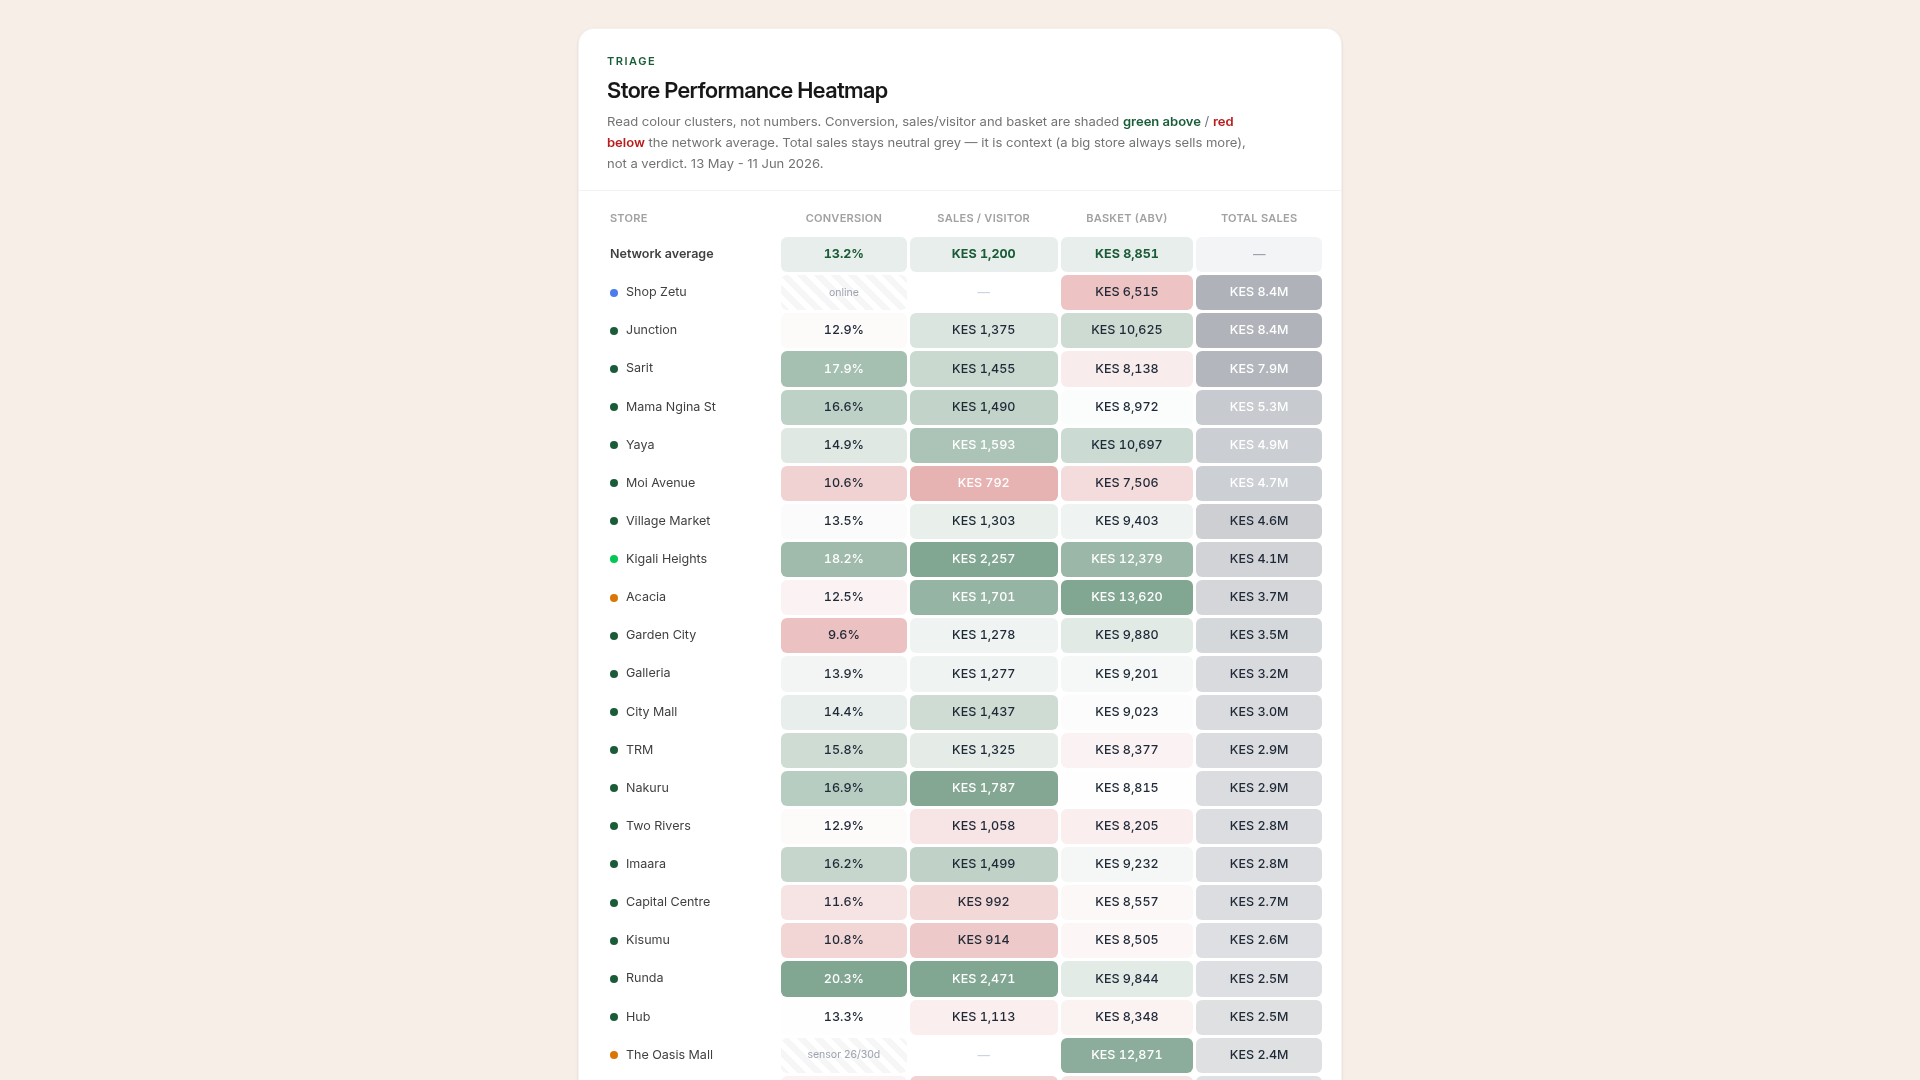
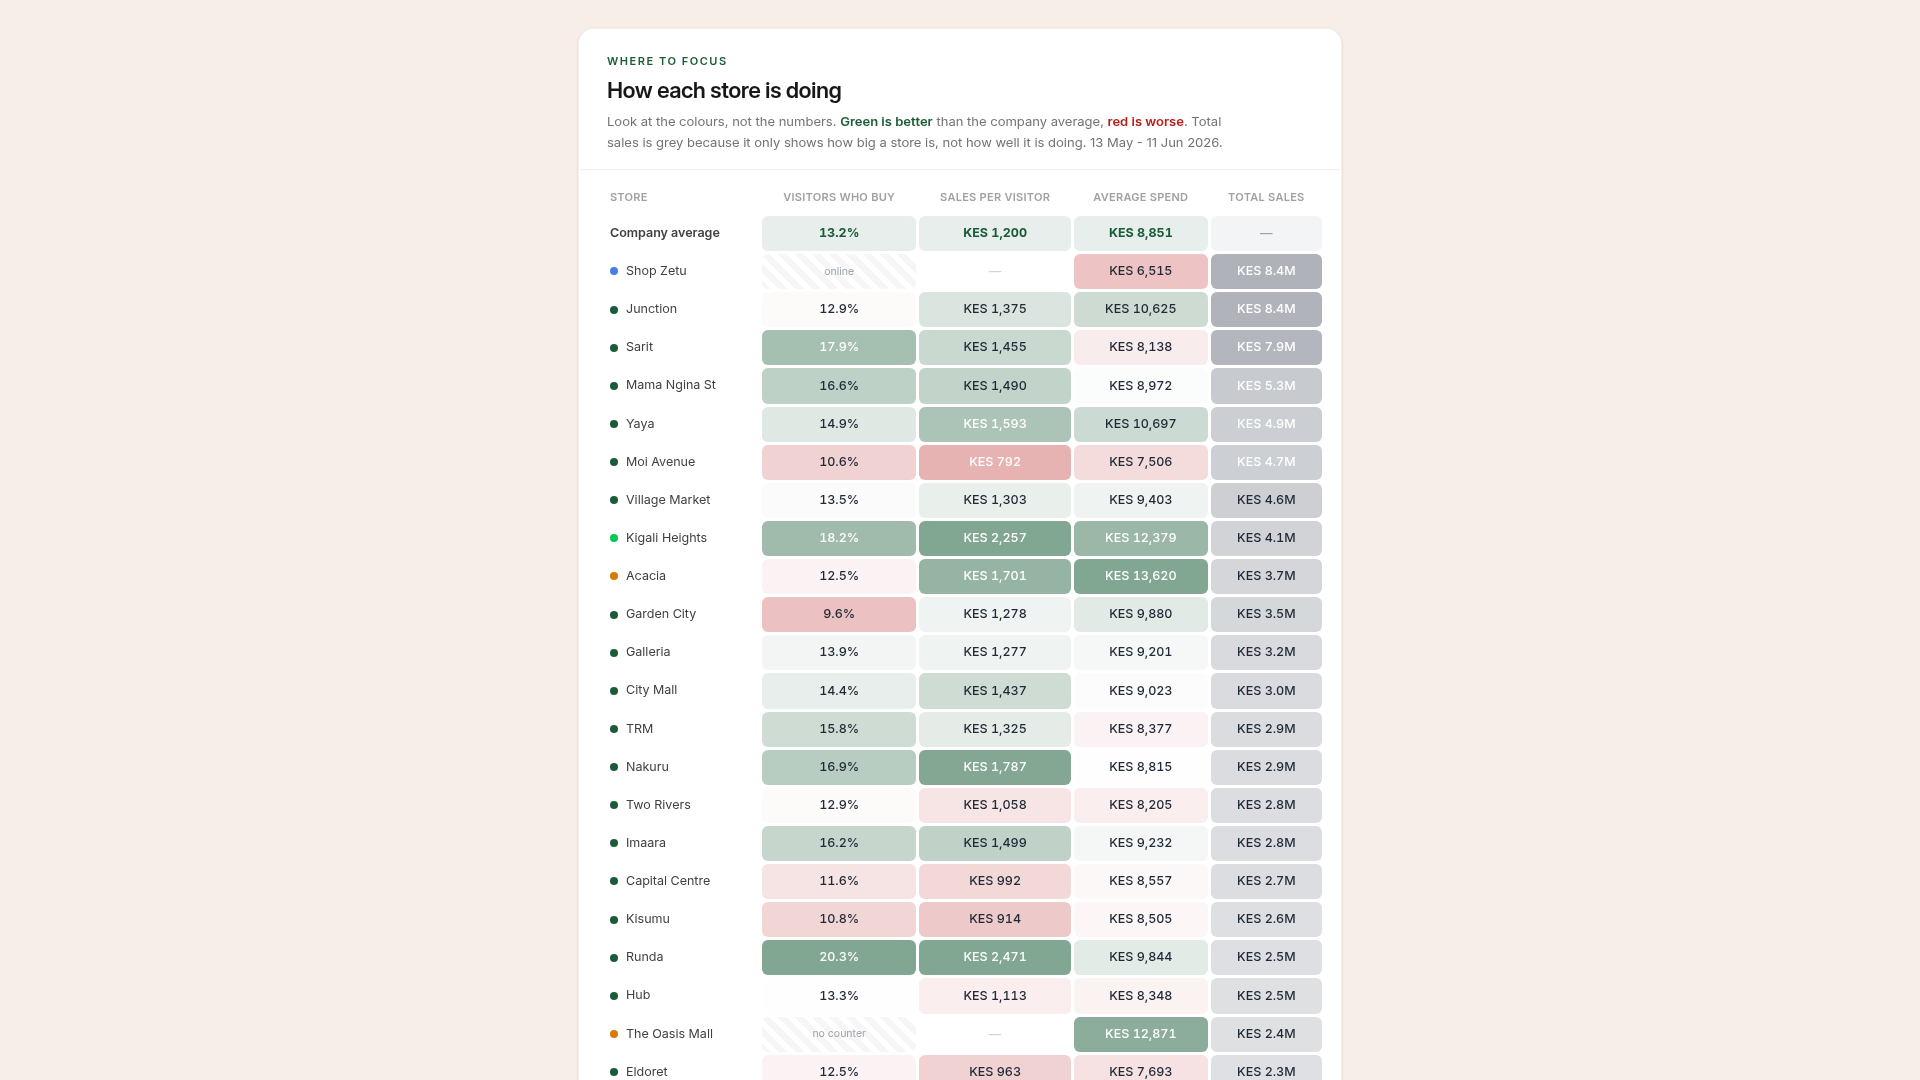
Improve store performance visualizations with simpler language
Update heatmap and quadrant components with plain English labels and descriptions. Refactor KPI calculations in api_pg.py to accurately reflect net sales, gross sales, and related metrics.

Replit-Commit-Author: Agent
Replit-Commit-Session-Id: 21d9856c-48e5-4f86-9b96-73dfbca8c926
Replit-Commit-Checkpoint-Type: full_checkpoint
Replit-Commit-Event-Id: 1252f12c-ba6e-4c66-9650-27c1a939bb11
Replit-Commit-Screenshot-Url: https://storage.googleapis.com/screenshot-production-us-central1/a2104183-e22b-4aee-99f6-fc604d080eee/21d9856c-48e5-4f86-9b96-73dfbca8c926/EQgl18Q
Replit-Helium-Checkpoint-Created: true

Changed region(s): [[0.3125, 0.1833, 0.6875, 1.0], [0.3125, 0.0306, 0.6562, 0.2139]]

diff --git a/artifacts/mockup-sandbox/src/components/mockups/locations-viz/Quadrant.tsx b/artifacts/mockup-sandbox/src/components/mockups/locations-viz/Quadrant.tsx
@@ -41,23 +41,23 @@ export function Quadrant() {
         <div className="rounded-2xl bg-white shadow-sm border border-black/5 overflow-hidden">
           <div className="px-7 pt-6 pb-4 border-b border-black/5">
             <div className="text-[11px] font-semibold tracking-[0.14em] uppercase" style={{ color: "#1a5c38" }}>
-              Diagnosis
+              Store check-up
             </div>
             <h2 className="mt-1 text-[22px] font-semibold tracking-tight text-neutral-900">
-              Conversion vs. Average Basket
+              Are people buying, and how much do they spend?
             </h2>
-            <p className="mt-1 text-[13px] text-neutral-500 leading-relaxed max-w-[640px]">
-              Each store positioned against the network average. Where a store sits tells you the <em>kind</em> of
-              problem it has — not just whether it is good or bad. Bubble size = orders. Trails show movement
-              vs the prior period ({NETWORK.prevWindow}). {NETWORK.window}.
+            <p className="mt-1 text-[13px] text-neutral-500 leading-relaxed max-w-[660px]">
+              Across the bottom: how many visitors buy something. Up the side: how much each customer spends.
+              The dotted lines are the company average — top-right is the best place to be. Bigger circle = more
+              sales made (number of sales). The arrows show how each store moved since last month ({NETWORK.prevWindow}). {NETWORK.window}.
             </p>
           </div>
 
           {/* biggest movers strip */}
           <div className="px-7 py-3.5 border-b border-black/5 flex flex-wrap items-start gap-x-8 gap-y-3" style={{ background: "#fcf9f4" }}>
-            <MoverGroup label="Biggest gains" dir="up" movers={improving} />
+            <MoverGroup label="Most improved" dir="up" movers={improving} />
             <div className="w-px self-stretch bg-black/5 hidden md:block" />
-            <MoverGroup label="Biggest declines" dir="down" movers={sliding} />
+            <MoverGroup label="Slipping the most" dir="down" movers={sliding} />
           </div>
 
           <div className="relative">
@@ -81,10 +81,10 @@ export function Quadrant() {
               <line x1={M.l} y1={netY} x2={M.l + IW} y2={netY} stroke="#1a5c38" strokeDasharray="5 4" strokeWidth={1.4} opacity={0.55} />
 
               {/* quadrant labels */}
-              <text x={M.l + IW - 8} y={M.t + 18} textAnchor="end" className="fill-neutral-400" style={{ fontSize: 11, fontWeight: 600 }}>WIN ZONE — both levers healthy</text>
-              <text x={M.l + 8} y={M.t + 18} textAnchor="start" className="fill-neutral-400" style={{ fontSize: 11, fontWeight: 600 }}>Premium basket, low conversion</text>
-              <text x={M.l + IW - 8} y={M.t + IH - 10} textAnchor="end" className="fill-neutral-400" style={{ fontSize: 11, fontWeight: 600 }}>High conversion, small basket</text>
-              <text x={M.l + 8} y={M.t + IH - 10} textAnchor="start" className="fill-neutral-400" style={{ fontSize: 11, fontWeight: 600 }}>Underperforming</text>
+              <text x={M.l + IW - 8} y={M.t + 18} textAnchor="end" className="fill-neutral-400" style={{ fontSize: 11, fontWeight: 600 }}>Doing well — many buy and spend a lot</text>
+              <text x={M.l + 8} y={M.t + 18} textAnchor="start" className="fill-neutral-400" style={{ fontSize: 11, fontWeight: 600 }}>Big spenders, but few buy</text>
+              <text x={M.l + IW - 8} y={M.t + IH - 10} textAnchor="end" className="fill-neutral-400" style={{ fontSize: 11, fontWeight: 600 }}>Many buy, but spend little</text>
+              <text x={M.l + 8} y={M.t + IH - 10} textAnchor="start" className="fill-neutral-400" style={{ fontSize: 11, fontWeight: 600 }}>Needs help — few buy, low spend</text>
 
               {/* axes */}
               <line x1={M.l} y1={M.t + IH} x2={M.l + IW} y2={M.t + IH} stroke="#000" opacity={0.18} />
@@ -95,9 +95,9 @@ export function Quadrant() {
               {[5000, 7500, 10000, 12500].map((a) => (
                 <text key={a} x={M.l - 10} y={yScale(a) + 4} textAnchor="end" className="fill-neutral-500" style={{ fontSize: 11 }}>{(a / 1000).toFixed(0)}k</text>
               ))}
-              <text x={M.l + IW / 2} y={H - 14} textAnchor="middle" className="fill-neutral-600" style={{ fontSize: 12, fontWeight: 600 }}>Conversion rate</text>
-              <text transform={`rotate(-90 18 ${M.t + IH / 2})`} x={18} y={M.t + IH / 2} textAnchor="middle" className="fill-neutral-600" style={{ fontSize: 12, fontWeight: 600 }}>Average basket (KES)</text>
-              <text x={netX} y={M.t - 6} textAnchor="middle" style={{ fontSize: 10.5, fontWeight: 700, fill: "#1a5c38" }}>avg {NETWORK.netConv}%</text>
+              <text x={M.l + IW / 2} y={H - 14} textAnchor="middle" className="fill-neutral-600" style={{ fontSize: 12, fontWeight: 600 }}>How many visitors buy</text>
+              <text transform={`rotate(-90 18 ${M.t + IH / 2})`} x={18} y={M.t + IH / 2} textAnchor="middle" className="fill-neutral-600" style={{ fontSize: 12, fontWeight: 600 }}>Average spend per sale (KES)</text>
+              <text x={netX} y={M.t - 6} textAnchor="middle" style={{ fontSize: 10.5, fontWeight: 700, fill: "#1a5c38" }}>company avg {NETWORK.netConv}%</text>
 
               {/* movement trails (since last month) */}
               <defs>
@@ -157,25 +157,25 @@ export function Quadrant() {
                     <span className="text-[13px] font-semibold text-neutral-900">{hover.store}</span>
                   </div>
                   <div className="mt-2.5 space-y-1.5 text-[12px]">
-                    <Row k="Conversion" v={fmtPct(hover.conversion)} />
-                    <Row k="Avg basket" v={fmtKES(hover.abv)} />
-                    <Row k="Orders" v={hover.orders.toLocaleString()} />
-                    <Row k="Net sales" v={fmtKES(hover.sales)} />
-                    <Row k="Footfall" v={hover.footfall.toLocaleString()} />
+                    <Row k="Visitors who buy" v={fmtPct(hover.conversion)} />
+                    <Row k="Average spend" v={fmtKES(hover.abv)} />
+                    <Row k="Sales (count)" v={hover.orders.toLocaleString()} />
+                    <Row k="Total sales" v={fmtKES(hover.sales)} />
+                    <Row k="Visitors" v={hover.footfall.toLocaleString()} />
                   </div>
                   {hover.prev && (
                     <div className="mt-2.5 pt-2.5 border-t border-black/5 text-[11px]">
                       <div className="font-semibold mb-1" style={{ color: MOVE_COLOR[hover.prev.dir] }}>
-                        {hover.prev.dir === "up" ? "Improving" : hover.prev.dir === "down" ? "Sliding" : "Roughly flat"} vs last month
+                        {hover.prev.dir === "up" ? "Better" : hover.prev.dir === "down" ? "Worse" : "About the same"} than last month
                       </div>
                       <div className="flex items-center justify-between text-neutral-500">
-                        <span>Conversion</span>
+                        <span>Visitors who buy</span>
                         <span className="tabular-nums font-medium" style={{ color: hover.prev.dConv >= 0 ? "#1a5c38" : "#b91c1c" }}>
                           {hover.prev.dConv >= 0 ? "+" : ""}{hover.prev.dConv.toFixed(1)} pts
                         </span>
                       </div>
                       <div className="flex items-center justify-between text-neutral-500">
-                        <span>Avg basket</span>
+                        <span>Average spend</span>
                         <span className="tabular-nums font-medium" style={{ color: hover.prev.dAbv >= 0 ? "#1a5c38" : "#b91c1c" }}>
                           {hover.prev.dAbv >= 0 ? "+" : "−"}{fmtKES(Math.abs(hover.prev.dAbv)).replace("KES ", "")}
                         </span>
@@ -184,7 +184,7 @@ export function Quadrant() {
                   )}
                 </>
               ) : (
-                <div className="text-[12px] text-neutral-400 leading-relaxed">Hover any bubble for the full numbers.</div>
+                <div className="text-[12px] text-neutral-400 leading-relaxed">Point at any circle to see its numbers.</div>
               )}
             </div>
           </div>
@@ -199,20 +199,20 @@ export function Quadrant() {
             <div className="flex items-center gap-1.5 text-[12px] text-neutral-500">
               <span className="inline-block w-4 h-4 rounded-full border" style={{ borderColor: "#1a5c38" }} />
               <span className="inline-block w-2.5 h-2.5 rounded-full border" style={{ borderColor: "#1a5c38" }} />
-              bubble = orders
+              bigger circle = more sales made
             </div>
             <div className="flex items-center gap-3 text-[12px] text-neutral-500">
               <span className="flex items-center gap-1.5">
                 <svg width="22" height="8"><line x1="1" y1="4" x2="17" y2="4" stroke="#1a5c38" strokeWidth="1.6" /><path d="M16,1.6 L21,4 L16,6.4 Z" fill="#1a5c38" /></svg>
-                improving
+                getting better
               </span>
               <span className="flex items-center gap-1.5">
                 <svg width="22" height="8"><line x1="1" y1="4" x2="17" y2="4" stroke="#b91c1c" strokeWidth="1.6" /><path d="M16,1.6 L21,4 L16,6.4 Z" fill="#b91c1c" /></svg>
-                sliding
+                getting worse
               </span>
               <span className="flex items-center gap-1.5">
                 <svg width="22" height="8"><line x1="1" y1="4" x2="17" y2="4" stroke="#9ca3af" strokeWidth="1.6" /><path d="M16,1.6 L21,4 L16,6.4 Z" fill="#9ca3af" /></svg>
-                flat
+                no change
               </span>
               <span className="text-neutral-400">since last month</span>
             </div>
@@ -220,11 +220,11 @@ export function Quadrant() {
           {notPlotted.length > 0 && (
             <div className="px-7 pb-5 -mt-1">
               <div className="rounded-lg bg-neutral-50 border border-black/5 px-4 py-2.5 text-[12px] text-neutral-500">
-                <span className="font-semibold text-neutral-600">Not plotted (no reliable footfall):</span>{" "}
+                <span className="font-semibold text-neutral-600">Not shown (no reliable visitor count):</span>{" "}
                 {notPlotted.map((s, i) => (
                   <span key={s.store}>
                     {s.store}
-                    {s.noFootfall ? " (online channel)" : ` (sensor down ${s.sensorGap}/30 days)`}
+                    {s.noFootfall ? " (online — no shop visitors)" : ` (counter down ${s.sensorGap}/30 days)`}
                     {i < notPlotted.length - 1 ? " · " : ""}
                   </span>
                 ))}

diff --git a/artifacts/mockup-sandbox/src/components/mockups/locations-viz/Heatmap.tsx b/artifacts/mockup-sandbox/src/components/mockups/locations-viz/Heatmap.tsx
@@ -34,16 +34,16 @@ export function Heatmap() {
         <div className="rounded-2xl bg-white shadow-sm border border-black/5 overflow-hidden">
           <div className="px-7 pt-6 pb-4 border-b border-black/5">
             <div className="text-[11px] font-semibold tracking-[0.14em] uppercase" style={{ color: "#1a5c38" }}>
-              Triage
+              Where to focus
             </div>
             <h2 className="mt-1 text-[22px] font-semibold tracking-tight text-neutral-900">
-              Store Performance Heatmap
+              How each store is doing
             </h2>
             <p className="mt-1 text-[13px] text-neutral-500 leading-relaxed max-w-[640px]">
-              Read colour clusters, not numbers. Conversion, sales/visitor and basket are shaded{" "}
-              <span style={{ color: "#1a5c38", fontWeight: 600 }}>green above</span> /{" "}
-              <span style={{ color: "#b91c1c", fontWeight: 600 }}>red below</span> the network average. Total sales stays
-              neutral grey — it is context (a big store always sells more), not a verdict. {NETWORK.window}.
+              Look at the colours, not the numbers.{" "}
+              <span style={{ color: "#1a5c38", fontWeight: 600 }}>Green is better</span> than the company average,{" "}
+              <span style={{ color: "#b91c1c", fontWeight: 600 }}>red is worse</span>. Total sales is grey because it only
+              shows how big a store is, not how well it is doing. {NETWORK.window}.
             </p>
           </div>
 
@@ -52,7 +52,7 @@ export function Heatmap() {
               <thead>
                 <tr>
                   <th className="text-left text-[11px] font-semibold uppercase tracking-wide text-neutral-400 px-3 py-2">Store</th>
-                  {["Conversion", "Sales / visitor", "Basket (ABV)", "Total sales"].map((h) => (
+                  {["Visitors who buy", "Sales per visitor", "Average spend", "Total sales"].map((h) => (
                     <th key={h} className="text-center text-[11px] font-semibold uppercase tracking-wide text-neutral-400 px-2 py-2">{h}</th>
                   ))}
                 </tr>
@@ -60,7 +60,7 @@ export function Heatmap() {
               <tbody>
                 {/* pinned network average */}
                 <tr>
-                  <td className="px-3 py-2 text-[12.5px] font-semibold text-neutral-700 whitespace-nowrap">Network average</td>
+                  <td className="px-3 py-2 text-[12.5px] font-semibold text-neutral-700 whitespace-nowrap">Company average</td>
                   <Cell text={fmtPct(NETWORK.netConv)} bg="rgba(26,92,56,0.10)" color="#1a5c38" bold />
                   <Cell text={fmtKES(NETWORK.netSpv)} bg="rgba(26,92,56,0.10)" color="#1a5c38" bold />
                   <Cell text={fmtKES(NETWORK.netAbv)} bg="rgba(26,92,56,0.10)" color="#1a5c38" bold />
@@ -74,9 +74,10 @@ export function Heatmap() {
           </div>
 
           <div className="px-7 py-4 border-t border-black/5 text-[12px] text-neutral-500 leading-relaxed">
-            <span className="font-semibold text-neutral-600">How to read it:</span> a row red across conversion + sales/visitor
-            is a traffic-or-closing problem; a row red only on basket is an attach-selling / premium-mix problem. Hatched cells
-            mark stores where the footfall sensor was down too long to trust conversion.
+            <span className="font-semibold text-neutral-600">How to read it:</span> if a store is red on both
+            "visitors who buy" and "sales per visitor", not enough people are buying — work on welcoming and closing
+            the sale. If it is red only on "average spend", customers buy but spend little — suggest add-ons and
+            higher-value items. Striped boxes mean the visitor counter was down too long to trust those numbers.
           </div>
         </div>
       </div>
@@ -92,13 +93,13 @@ function Row({ s }: { s: StoreRow }) {
         <span className="inline-flex items-center gap-2">
           <span className="inline-block w-2 h-2 rounded-full shrink-0" style={{ background: ACCENT[s.country] }} />
           {s.store}
-          {s.lowVolume && <span className="text-[10px] text-neutral-400">(low vol)</span>}
+          {s.lowVolume && <span className="text-[10px] text-neutral-400">(few sales)</span>}
         </span>
       </td>
       {unreliable && s.noFootfall ? (
         <HatchCell label="online" />
       ) : unreliable ? (
-        <HatchCell label={`sensor ${s.sensorGap}/30d`} />
+        <HatchCell label="no counter" />
       ) : (
         <Cell text={fmtPct(s.conversion)} bg={divergingBg(s.conversion, NETWORK.netConv)} color={textColor(s.conversion, NETWORK.netConv)} />
       )}

diff --git a/api_pg.py b/api_pg.py
@@ -1548,7 +1548,7 @@ def get_kpis(
     where = build_filters(date_from, date_to, country, channel)
     rows = run_query("""
         SELECT
-            ROUND(SUM(s.total_sales_kes::numeric), 0) AS total_sales,
+            ROUND(SUM(CASE WHEN s.sale_kind IN ('sale','order') THEN s.total_sales_kes::numeric ELSE 0 END) - SUM(CASE WHEN s.sale_kind = 'return' THEN s.returns_kes::numeric ELSE 0 END), 0) AS total_sales,
             ROUND(SUM(CASE WHEN s.sale_kind IN ('sale','order') THEN s.gross_sales_kes::numeric ELSE 0 END), 0) AS gross_sales,
             ROUND(SUM(CASE WHEN s.sale_kind IN ('sale','order') THEN s.discounts_kes::numeric ELSE 0 END), 0) AS total_discounts,
             ROUND(SUM(CASE WHEN s.sale_kind = 'return' THEN s.returns_kes::numeric ELSE 0 END), 0) AS total_returns,
@@ -1556,8 +1556,8 @@ def get_kpis(
                           WHEN s.sale_kind = 'return' THEN -s.returns_kes::numeric ELSE 0 END), 0) AS net_sales,
             COUNT(DISTINCT CASE WHEN s.sale_kind IN ('sale','order') THEN s.order_id END) AS total_orders,
             SUM(CASE WHEN s.sale_kind IN ('sale','order') THEN s.ordered_item_quantity ELSE 0 END) AS total_units,
-            ROUND(SUM(s.total_sales_kes::numeric) / NULLIF(COUNT(DISTINCT CASE WHEN s.sale_kind IN ('sale','order') THEN s.order_id END), 0), 0) AS avg_basket_size,
-            ROUND(SUM(s.total_sales_kes::numeric) / NULLIF(SUM(CASE WHEN s.sale_kind IN ('sale','order') THEN s.ordered_item_quantity ELSE 0 END), 0), 0) AS avg_selling_price,
+            ROUND((SUM(CASE WHEN s.sale_kind IN ('sale','order') THEN s.total_sales_kes::numeric ELSE 0 END) - SUM(CASE WHEN s.sale_kind = 'return' THEN s.returns_kes::numeric ELSE 0 END)) / NULLIF(COUNT(DISTINCT CASE WHEN s.sale_kind IN ('sale','order') THEN s.order_id END), 0), 0) AS avg_basket_size,
+            ROUND((SUM(CASE WHEN s.sale_kind IN ('sale','order') THEN s.total_sales_kes::numeric ELSE 0 END) - SUM(CASE WHEN s.sale_kind = 'return' THEN s.returns_kes::numeric ELSE 0 END)) / NULLIF(SUM(CASE WHEN s.sale_kind IN ('sale','order') THEN s.ordered_item_quantity ELSE 0 END), 0), 0) AS avg_selling_price,
             ROUND(SUM(CASE WHEN s.sale_kind = 'return' THEN s.returns_kes::numeric ELSE 0 END)
                 / NULLIF(SUM(CASE WHEN s.sale_kind IN ('sale','order') THEN s.gross_sales_kes::numeric ELSE 0 END), 0) * 100, 2) AS return_rate
         FROM all_sales s
